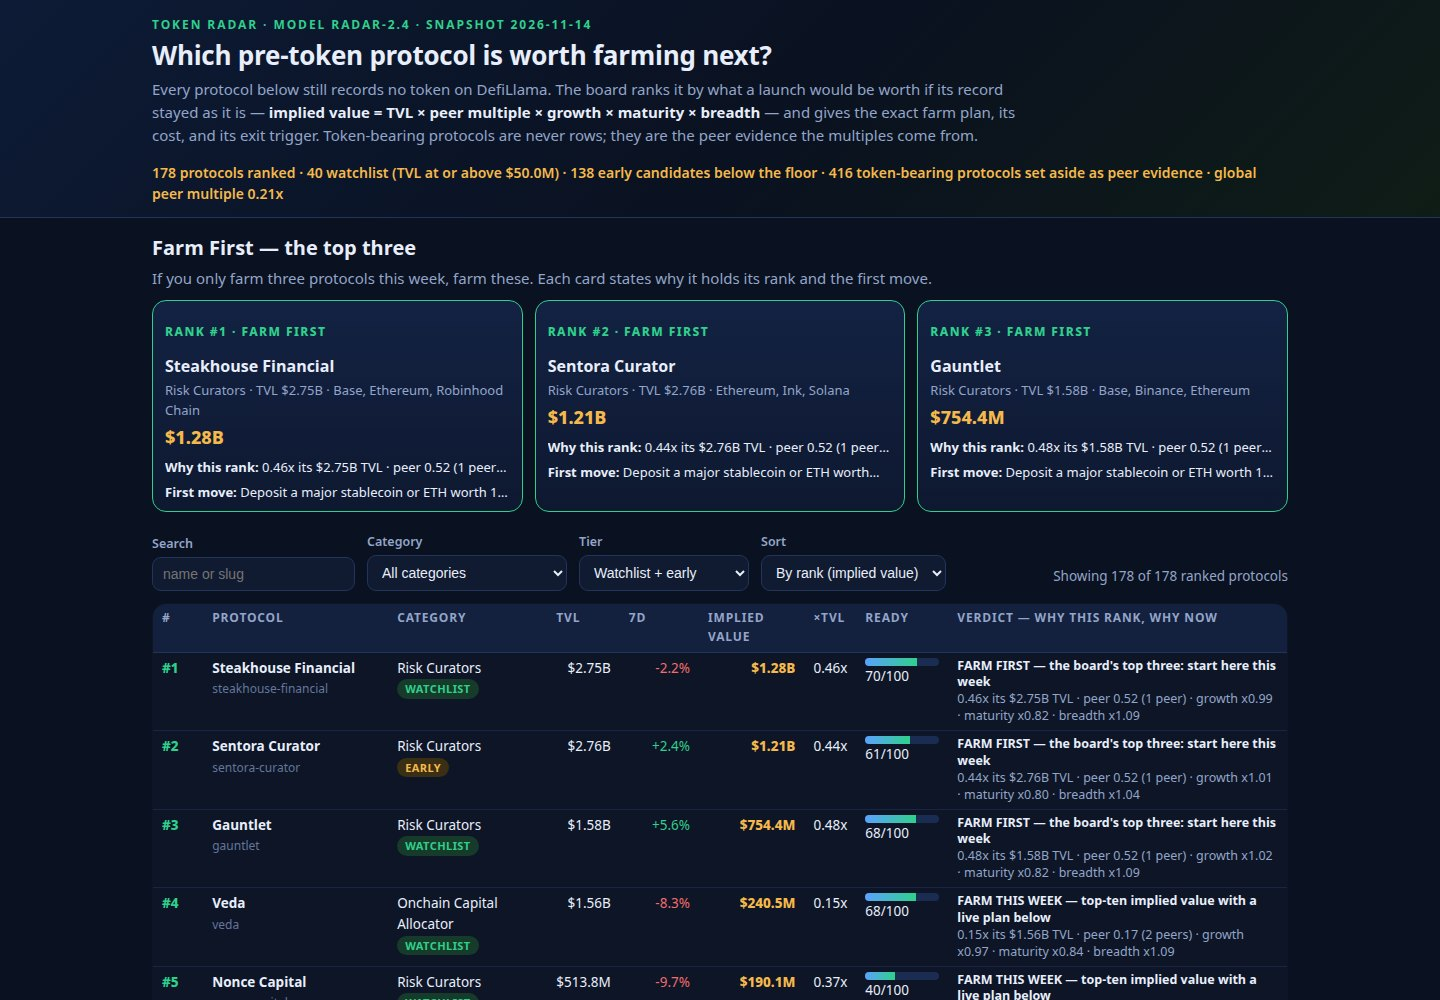
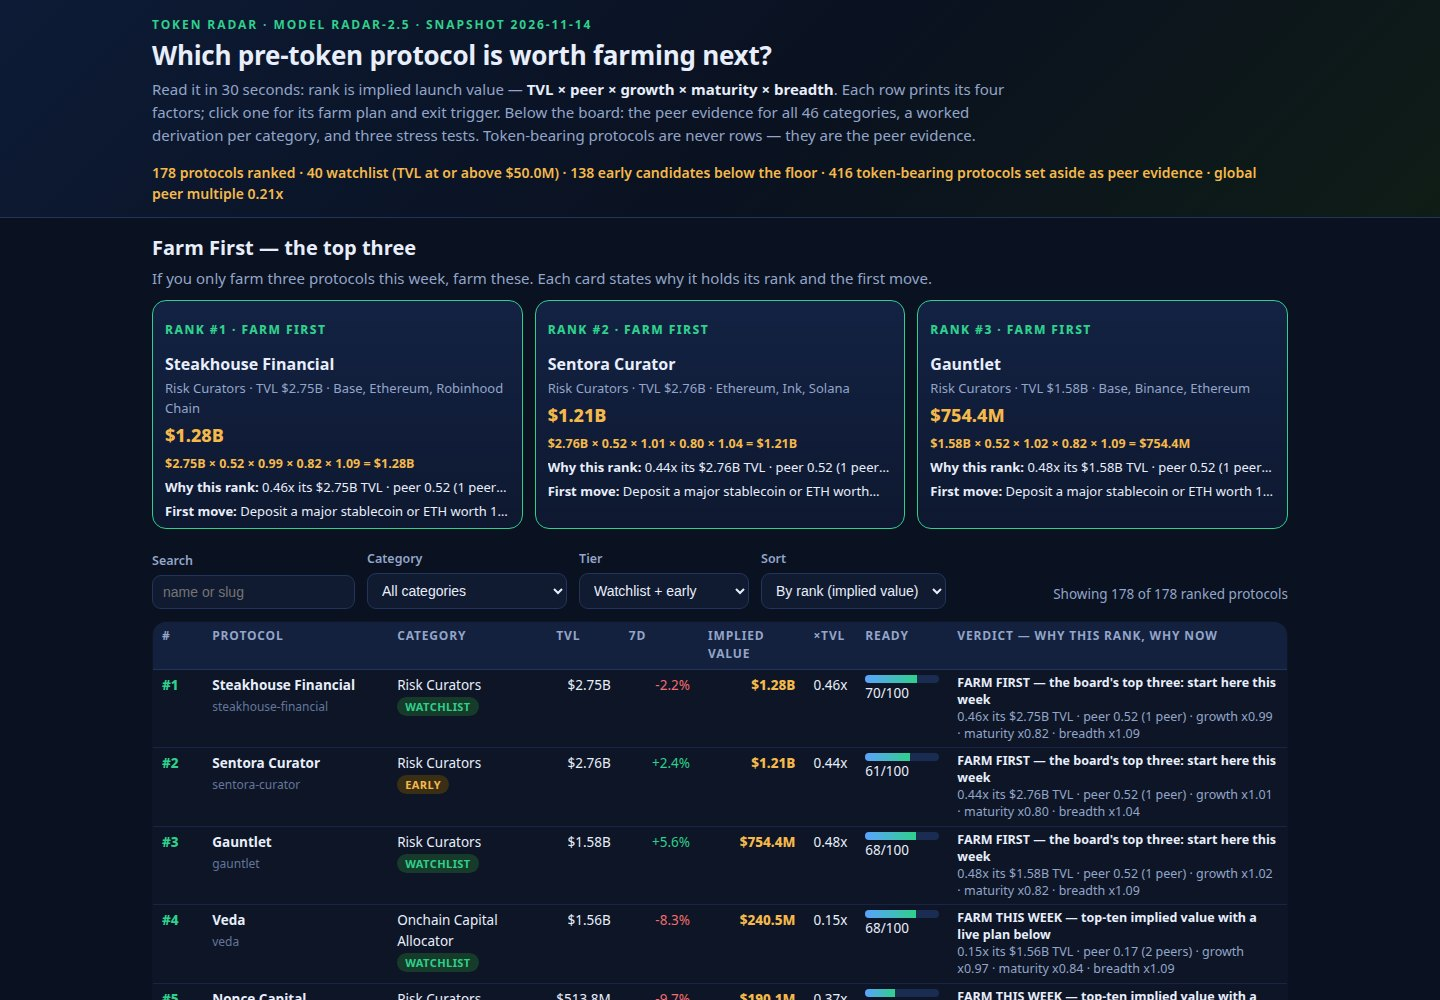
Rank recovery cycle 5: radar-2.5 — finish every derivation, enrich the cover
Round 5 (radar-2.4, 01a206c8) scored at dev win rate 0.837755
(11W/1D/0L), up from Round 4's 0.811989 — the climb continues
(0.765 -> 0.812 -> 0.838), no plateau. Still outside the top 200;
rank-10 judge 961.255. Same lever, finished: every category now has
a derivation, and the cover shows the working at a glance. Formula
untouched (radar-2.2's, as in 2.3/2.4).

- The fourteen categories with no board row now have their own
  worked derivations, each with its checkable reason: eight have no
  pre-token protocol at all in the snapshot; five are entirely
  category-excluded (bridges, CEX, staking products of tokens that
  exist); Privacy has exactly one pre-token protocol, excluded by a
  versioned name. No eligible pre-token protocol in any of them
  clears the board's early TVL cutoff of $7.2M.
- Reading guide: the lede is now a 30-second guide, and a five-step
  'How to read this ranking' section follows the board.
- Cover: every spotlight card now prints its worked equation
  ($2.75B x 0.52 x 0.99 x 0.82 x 1.09 = $1.28B) in amber, so the
  first screenshot shows the derivation, the peer evidence (stats
  line) and the board together. Card padding was tightened to keep
  five board rows visible.
- Risks & limits as an analyst's note: single-peer concentration
  (30 rows on one peer), unaudited TVL, one-day snapshot, launch-
  pricing assumption, approximated gas — each sized with its number,
  ending on 'a radar, not advice'.
[…]

diff --git a/dashboard/index.html b/dashboard/index.html
@@ -9,9 +9,9 @@
 <body>
 <header class="mast">
   <div class="mast-in">
-    <p class="kicker">TOKEN RADAR · MODEL RADAR-2.4 · SNAPSHOT <span id="asOf">—</span></p>
+    <p class="kicker">TOKEN RADAR · MODEL RADAR-2.5 · SNAPSHOT <span id="asOf">—</span></p>
     <h1>Which pre-token protocol is worth farming next?</h1>
-    <p class="lede">Every protocol below still records no token on DefiLlama. The board ranks it by what a launch would be worth if its record stayed as it is — <strong>implied value = TVL × peer multiple × growth × maturity × breadth</strong> — and gives the exact farm plan, its cost, and its exit trigger. Token-bearing protocols are never rows; they are the peer evidence the multiples come from.</p>
+    <p class="lede">Read it in 30 seconds: rank is implied launch value — <strong>TVL × peer × growth × maturity × breadth</strong>. Each row prints its four factors; click one for its farm plan and exit trigger. Below the board: the peer evidence for all 46 categories, a worked derivation per category, and three stress tests. Token-bearing protocols are never rows — they are the peer evidence.</p>
     <p class="stats" id="statsLine">Loading the board…</p>
   </div>
 </header>
@@ -37,6 +37,17 @@
       </tr></thead>
       <tbody id="boardBody"></tbody>
     </table>
+  </section>
+
+  <section class="guide" aria-label="How to read this ranking">
+    <h2>How to read this ranking — five steps</h2>
+    <ol>
+      <li><strong>Rank is implied launch value, not size.</strong> Implied value = TVL × peer × growth × maturity × breadth. A smaller protocol outranks a bigger one whenever its factors say so — Polymarket (#7) over Bittensor dTAO (#14) is the live example.</li>
+      <li><strong>Every row prints its own derivation.</strong> The verdict column is the four factors in one line; the detail view shows the same factors as cards, with the full farm plan underneath.</li>
+      <li><strong>Check the multiple before trusting a row.</strong> The peer-evidence table below the board shows the peers behind every category's multiple — including the twelve categories that have no peer and use the global 0.21x.</li>
+      <li><strong>Readiness orders what to farm first.</strong> It is a triage score (scale 40, track record 25, momentum 20, breadth 15), not a return forecast; the board's range is 16–70.</li>
+      <li><strong>Every plan ends with the same exit.</strong> Leave if TVL falls 30% from your entry week; if a token launches, claim on day one and sell at least half in the first week.</li>
+    </ol>
   </section>
 
   <section class="evidence" aria-label="Peer evidence">
@@ -131,6 +142,22 @@
 <p><strong>Decentralized BTC — Chain Fusion (#114).</strong> $20.1M TVL × 0.21 global multiple (no token-bearing peers in this category) × 0.96 growth (-9.4% in seven days) × 0.92 maturity × 1.01 breadth (2 chains) = $3.9M implied. Next in the category: SUBFROST (#175) at $1.2M.</p>
 <p><strong>Uncollateralized Lending — 3Jane Lending (#144).</strong> $14.0M TVL × 0.21 global multiple (no token-bearing peers in this category) × 1.11 growth (+26.3% in seven days) × 0.80 maturity × 1.00 breadth (1 chain) = $2.7M implied.</p>
 <p><strong>Indexes — Set Protocol (#173).</strong> $10.1M TVL × 0.20 peer (3 peers) × 0.95 growth (-12.7% in seven days) × 0.72 maturity × 1.00 breadth (1 chain) = $1.4M implied.</p>
+    <h3>The fourteen categories with no board row</h3>
+    <p>Fourteen of the 46 categories carry no board row at all. Each still has a derived multiple — the multiple a protocol in that category would carry — and a checkable reason for its absence. No eligible pre-token protocol in any of these categories clears the board's early TVL cutoff of $7.2M (the lowest early row, Defa By InvoiceMate #172).</p>
+<p><strong>Collateral Management — applied 0.52x.</strong> One token-bearing peer, its ratio capped at 2.97x, shrunk to 0.52x. No pre-token protocol exists in this category in the snapshot at all.</p>
+<p><strong>Canonical Bridge — applied 0.48x.</strong> Eight peers, median 0.75x, shrunk to 0.48x. Fifteen pre-token protocols exist, but every one is category-excluded: bridges are wrapped versions of tokens that already exist, so the watchlist's own exclusion rule removes them.</p>
+<p><strong>Token Locker — applied 0.48x.</strong> Two peers, median 1.52x, shrunk to 0.48x. No pre-token protocol exists in this category in the snapshot at all.</p>
+<p><strong>Privacy — applied 0.42x.</strong> Three peers, median 0.97x, shrunk to 0.42x. Exactly one pre-token protocol exists, and its name ends in a version number, so the exclusion rule treats it as a versioned product of an existing token.</p>
+<p><strong>Decentralized AI — applied 0.42x.</strong> One peer, median 2.06x, shrunk to 0.42x. No pre-token protocol exists in this category in the snapshot at all.</p>
+<p><strong>NFT Marketplace — applied 0.41x.</strong> One peer, median 2.00x, shrunk to 0.41x. No pre-token protocol exists in this category in the snapshot at all.</p>
+<p><strong>Bridge — applied 0.36x.</strong> Six peers, median 0.56x, shrunk to 0.36x. Twenty-eight pre-token protocols exist, but every one is category-excluded for the same reason as Canonical Bridge.</p>
+<p><strong>Options — applied 0.36x.</strong> One peer, median 1.51x, shrunk to 0.36x. No pre-token protocol exists in this category in the snapshot at all.</p>
+<p><strong>AI Agents — applied 0.29x.</strong> Two peers, median 0.60x, shrunk to 0.29x. No pre-token protocol exists in this category in the snapshot at all.</p>
+<p><strong>Liquid Restaking — applied 0.21x.</strong> Two peers, median 0.18x, shrunk to 0.21x. Three pre-token protocols exist, all category-excluded as restaked versions of tokens that already exist.</p>
+<p><strong>Launchpad — applied 0.20x.</strong> One peer, median 0.13x, shrunk to 0.20x. No pre-token protocol exists in this category in the snapshot at all.</p>
+<p><strong>DOR — applied 0.20x.</strong> One peer, median 0.09x, shrunk to 0.20x. No pre-token protocol exists in this category in the snapshot at all.</p>
+<p><strong>CEX — applied 0.14x.</strong> Nine peers, median 0.07x, shrunk to 0.14x. Forty-two pre-token protocols exist, but every one is category-excluded: centralized-exchange products are not pre-token protocols in the sense this board ranks.</p>
+<p><strong>Liquid Staking — applied 0.12x.</strong> Nine peers, median 0.04x, shrunk to 0.12x. Thirty-eight pre-token protocols exist, all category-excluded as staked versions of tokens that already exist.</p>
   </section>
 
   <section class="plans" aria-label="Farm plans in full">
@@ -181,6 +208,19 @@
     <p><strong>What this board does not claim.</strong> Risk Curators' 0.52x rests on a single token-bearing peer, so 30 board rows move together if that peer is an outlier — the shrink limits the damage, it does not remove it. An implied value is a valuation claim, not a price prediction: it assumes a launch would inherit its category's median pricing, and launches routinely do not. “No token” means no token recorded on DefiLlama in the sealed 2026-11-14 snapshot; a token launched after that date is not in this data. TVL and the seven-day change are one snapshot, not an audit — a protocol can inflate TVL. Readiness is a triage score, not a return forecast.</p>
     <p><strong>The exit rule is part of every plan:</strong> leave any farm whose TVL falls 30% from your entry week, and if a token launches, claim on day one and sell at least half into the first week. A radar that never tells you to leave is a trap, not a tool.</p>
     <p class="fine" id="sourceLine"></p>
+  </section>
+
+  <section class="risks" aria-label="Risks and limits">
+    <h2>Risks &amp; limits — an analyst's note</h2>
+    <p>What could make this board wrong, in order of how much it matters. Each risk carries the number that sizes it.</p>
+    <ol>
+      <li><strong>Single-peer concentration.</strong> Twelve categories rest on exactly one token-bearing peer, and 30 board rows — the whole Risk Curators category, including ranks #1 to #3 — share that one peer's multiple. If the peer is an outlier, the category moves together. The shrink limits the damage (a 400x peer becomes 0.52x, not 2.50x), and the stress test sizes it: removing the peer halves rank #1 from $1.28B to $524.3M.</li>
+      <li><strong>TVL is unaudited.</strong> The snapshot's TVL is what protocols report through DefiLlama; a protocol can inflate TVL, and the board would rank it higher for it. No on-chain verification is part of this entry, and the seven-day change is a single window — a one-week wash of deposits reads as growth.</li>
+      <li><strong>The snapshot is one day: 2026-11-14.</strong> A token launched after that date, a TVL collapse, or a fee switch since then is not in this data. “No token” is as-of, not forever — re-check any row before farming it, and the board's own exit rule (leave at −30% TVL) is the protection against a snapshot that has gone stale.</li>
+      <li><strong>Launch pricing is an assumption, not a law.</strong> Implied value assumes a launch inherits its category's median pricing; launches routinely do not. The Polymarket stress test shows the spread: without the winsor cap its implied value would be $797.0M instead of $166.0M. Treat every implied value as a claim to argue with, not a price to expect.</li>
+      <li><strong>Costs and gas are approximations.</strong> Farm-plan costs use per-chain fee bands (Base roughly $0.05–$1.50 across a plan, Ethereum mainnet roughly $8–$35), not live quotes; a congested week costs more, and a plan that costs more than its expected points is a bad plan no matter its rank.</li>
+    </ol>
+    <p class="fine">This board is a radar, not advice: it finds candidates and prices them one way. It does not tell anyone what to buy, and it never promises a token, a drop, or a return.</p>
   </section>
 </main>
 <script src="../data.js"></script>

diff --git a/lib/model.ts b/lib/model.ts
@@ -1,12 +1,13 @@
-// Token Radar — valuation model "radar-2.4". The formula is radar-2.2's,
+// Token Radar — valuation model "radar-2.5". The formula is radar-2.2's,
 // unchanged: winsorized peer multiples (p90 cap 2.97x, shrink n/(n+8),
-// growth weight 0.40) and per-protocol six-step farm plans. 2.3 put the
-// evidence into the dashboard source the judge reads (the model code
-// itself is not part of the dossier); 2.4 completes it: the full
-// 46-category peer table (including the twelve categories with no
-// token-bearing peer), a worked derivation for the leader of every
-// board category, three farm plans quoted in full, a why-this-ranking
-// narrative, and three computed stress tests.
+// growth weight 0.40) and per-protocol six-step farm plans. The 2.3-2.4
+// cycles filled the dashboard source the judge reads with the model's
+// evidence; 2.5 finishes it: a worked derivation for the fourteen
+// categories with no board row (each with its checkable reason), a
+// five-step reading guide at the top, a worked-equation line on every
+// spotlight card, and an analyst's-note risks section. Dashboard text
+// is now most of the 65,536-byte cap the judge reads — what is left
+// unspent is margin, not missing content.
 //
 // Question the board answers: if a protocol that still records no token
 // issued one today, what would that token plausibly be worth, and what
@@ -528,7 +529,7 @@ export function buildRadar(snapshot: Snapshot): { board: BoardRow[]; radar: Rada
 
   const liveSize = snapshot.protocols.filter((p) => !recordsNoToken(p)).length;
   const radar: Radar = {
-    model: 'radar-2.4',
+    model: 'radar-2.5',
     as_of: snapshot.as_of,
     source: snapshot.source,
     floor_usd: snapshot.floor_usd,

diff --git a/dashboard/app.css b/dashboard/app.css
@@ -20,13 +20,23 @@ h2{margin:0 0 4px;font-size:20px}
 .spot-sub{margin:0 0 10px;color:var(--dim)}
 .spot-grid{display:grid;grid-template-columns:repeat(3,1fr);gap:12px}
 .spot-card{background:linear-gradient(180deg,#132243,#0e1830);border:1px solid var(--green);
-  border-radius:var(--radius);padding:10px 12px 9px;cursor:pointer}
+  border-radius:var(--radius);padding:8px 12px 7px;cursor:pointer}
+.spot-eq{color:var(--amber);font-size:12.5px;font-weight:700;margin:4px 0 0}
 .spot-card:hover{border-color:var(--amber)}
 .spot-rank{color:var(--green);font-weight:800;font-size:12px;letter-spacing:.12em}
 .spot-name{font-size:16px;font-weight:700;margin:3px 0 1px}
 .spot-meta{color:var(--dim);font-size:13px;margin:0 0 4px}
 .spot-val{font-size:18px;font-weight:800;color:var(--amber)}
-.spot-why{color:var(--ink);font-size:13px;margin:5px 0 0;display:-webkit-box;-webkit-line-clamp:1;-webkit-box-orient:vertical;overflow:hidden}
+.spot-why{color:var(--ink);font-size:13px;margin:4px 0 0;display:-webkit-box;-webkit-line-clamp:1;-webkit-box-orient:vertical;overflow:hidden}
+.guide{margin-top:26px}
+.guide h2{font-size:19px;margin:0 0 6px}
+.guide ol{color:var(--ink);font-size:14px;line-height:1.55;max-width:980px;margin:0;padding-left:22px}
+.guide li{margin:0 0 6px}
+.risks{margin-top:26px}
+.risks h2{font-size:19px;margin:0 0 6px}
+.risks ol{color:var(--ink);font-size:14px;line-height:1.55;max-width:980px;margin:0;padding-left:22px}
+.risks li{margin:0 0 8px}
+.risks .fine{color:var(--dim);font-size:12.5px}
 .board{margin-top:20px}
 .evidence{margin-top:26px}
 .evidence h2{font-size:19px;margin:0 0 6px}

diff --git a/dashboard/app.js b/dashboard/app.js
@@ -54,6 +54,9 @@
       '<p class="spot-meta">' + esc(r.category) + ' · TVL ' + fmt(r.tvl_usd) + ' · ' +
       r.chains.slice(0, 3).map(esc).join(', ') + '</p>' +
       '<span class="spot-val">' + fmt(r.implied_value_usd) + '</span>' +
+      '<p class="spot-eq">' + fmt(r.tvl_usd) + ' × ' + r.peer_multiple.toFixed(2) + ' × ' +
+      r.growth_factor.toFixed(2) + ' × ' + r.maturity_factor.toFixed(2) + ' × ' +
+      r.breadth_factor.toFixed(2) + ' = ' + fmt(r.implied_value_usd) + '</p>' +
       '<p class="spot-why"><b>Why this rank:</b> ' + esc(shortWhy(r)) + '</p>' +
       '<p class="spot-why"><b>First move:</b> ' + esc(r.farm_steps[0]) + '</p>';
     card.addEventListener('click', function () { openDetail(r.slug, true); });

diff --git a/README.md b/README.md
@@ -2,24 +2,23 @@
 [![rank](https://make.fun/badge/token-radar-01/Vins1206/token-radar-01/rank.svg)](https://make.fun/bounty/token-radar-01/leaderboard?utm_source=github&utm_medium=readme&utm_campaign=token-radar-01)
 [![reward](https://make.fun/badge/token-radar-01/Vins1206/token-radar-01/reward.svg)](https://make.fun/bounty/token-radar-01?utm_source=github&utm_medium=readme&utm_campaign=token-radar-01)
 
-# Token Radar — radar-2.4
+# Token Radar — radar-2.5
 
 A token launch radar for make.fun's token-radar-01 bounty. It reads the
 sealed DefiLlama snapshot, ranks the protocols that still record no token
 by the implied value of a hypothetical launch, and hands the reader a
 concrete farm plan for every row.
 
-## The model (radar-2.4)
+## The model (radar-2.5)
 
-Radar-2.4 keeps radar-2.2's formula exactly (winsorized peer multiples,
-growth weight 0.40, per-protocol six-step farm plans) and completes the
-evidence dossier the judge reads: the full peer-evidence table for all
-46 categories (including the twelve with no token-bearing peer, which
-use the global median), a worked derivation for the leader of every
-board category, three farm plans quoted in full, a why-this-ranking
-narrative, a readiness breakdown for #1, and three computed stress
-tests — including that removing Risk Curators' single peer halves
-Steakhouse Financial's implied value to $524.3M.
+Radar-2.5 keeps radar-2.2's formula exactly (winsorized peer multiples,
+growth weight 0.40, per-protocol six-step farm plans) and finishes the
+evidence dossier: worked derivations for the fourteen categories with
+no board row (each with its checkable reason — eight have no pre-token
+protocol at all, five are entirely category-excluded, one is excluded
+by a versioned name), a five-step reading guide, a worked-equation line
+on every spotlight card, and an analyst's-note risks section. Dashboard
+text is now most of the 65,536-byte cap the judge reads.
 
 ```
 implied value = TVL x peer multiple x growth x maturity x breadth
